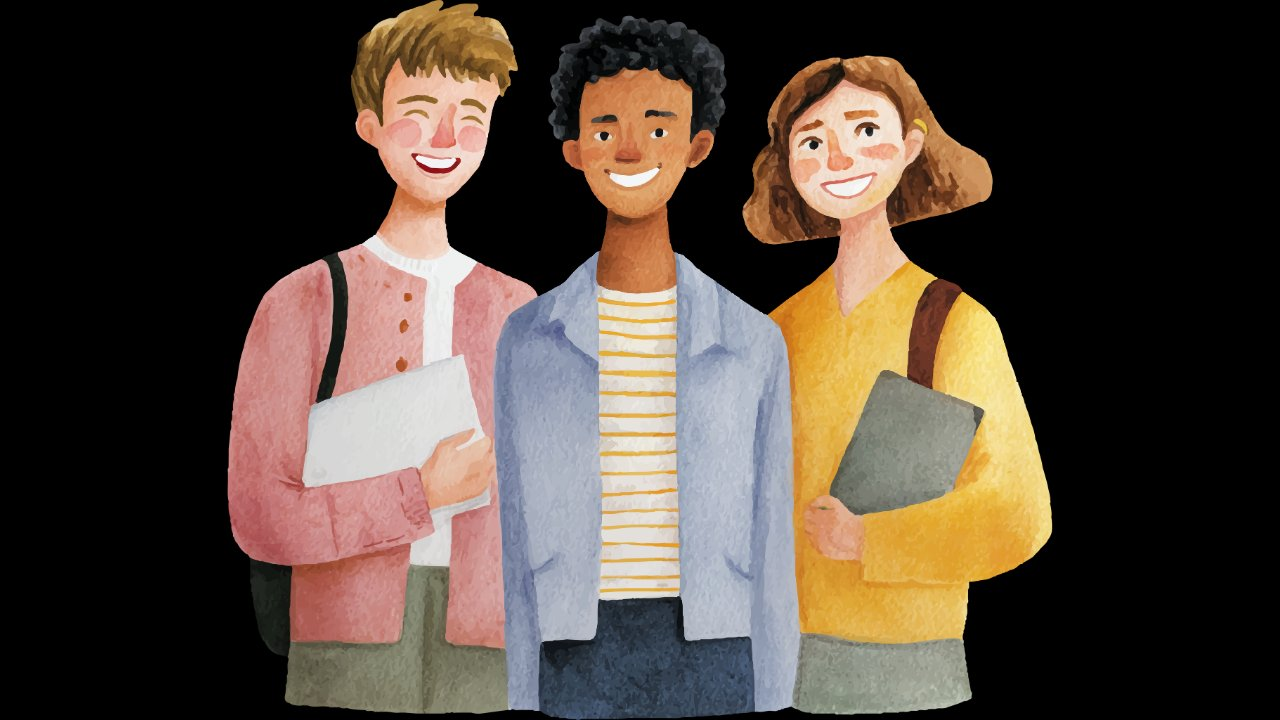
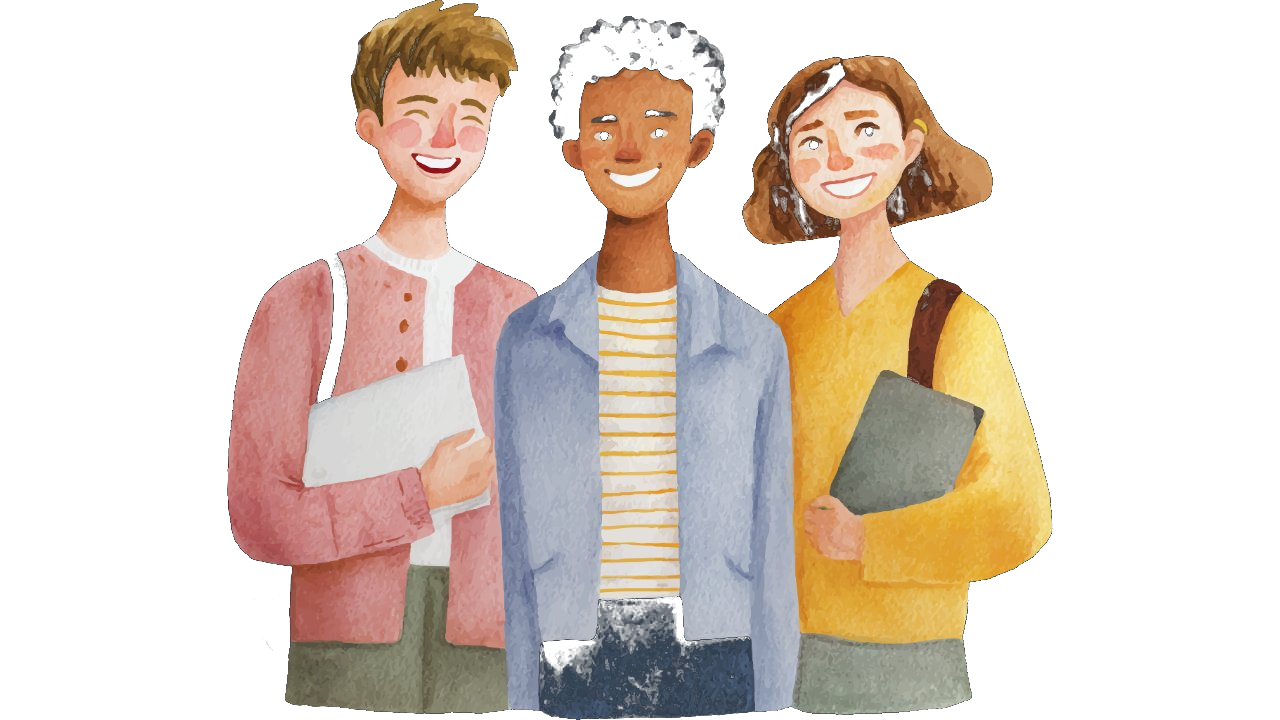
fix hero image transparency + text layout

diff --git a/app/page.tsx b/app/page.tsx
@@ -11,49 +11,46 @@ export default function HomePage() {
           <div className="absolute top-10 left-10 w-72 h-72 bg-white rounded-full blur-3xl" />
           <div className="absolute bottom-10 right-10 w-96 h-96 bg-accent-500 rounded-full blur-3xl" />
         </div>
-        <div className="container-main relative py-16 sm:py-24">
-          <div className="grid grid-cols-1 lg:grid-cols-[3fr_2fr] gap-4 items-center">
-            {/* Left — Text content */}
+        <div className="container-main relative py-16 sm:py-20">
+          <div className="grid grid-cols-1 lg:grid-cols-[55%_45%] gap-6 items-center">
+
+            {/* Left — Text */}
             <div>
-              <div className="inline-flex items-center gap-2 bg-white/15 backdrop-blur-sm rounded-full px-4 py-1.5 text-sm font-medium mb-6">
+              <div className="inline-flex items-center gap-2 bg-white/15 backdrop-blur-sm rounded-full px-4 py-1.5 text-sm font-medium mb-5">
                 <span className="w-2 h-2 bg-emerald-400 rounded-full animate-pulse" />
                 100% Free – No Login Required
               </div>
-              <h1 className="text-4xl sm:text-5xl xl:text-6xl font-heading font-bold leading-tight mb-6">
-                Your Complete Guide to
-                <span className="block text-accent-300">Government Exams</span>
+              <h1 className="text-4xl sm:text-5xl font-heading font-bold leading-tight mb-5">
+                Your Complete Guide to{' '}
+                <span className="text-accent-300">Government Exams</span>
               </h1>
-              <p className="text-lg sm:text-xl text-primary-100 leading-relaxed mb-8">
-                Syllabus, study plans, best books, free resources, and preparation strategies for UPSC, SSC, Banking, Railway, and all major government exams. Everything you need, in one place.
+              <p className="text-base sm:text-lg text-primary-100 leading-relaxed mb-7 max-w-xl">
+                Syllabus, study plans, best books, and free resources for UPSC, SSC, Banking, Railway, and all major government exams. Everything in one place.
               </p>
-              <div className="flex flex-wrap gap-4">
-                <Link href="/exams" className="inline-flex items-center px-8 py-4 bg-white text-primary-600 font-heading font-bold rounded-xl hover:bg-primary-50 transition-all shadow-lg hover:shadow-xl active:scale-[0.98]">
+              <div className="flex flex-wrap gap-3">
+                <Link href="/exams" className="inline-flex items-center px-7 py-3.5 bg-white text-primary-600 font-heading font-bold rounded-xl hover:bg-primary-50 transition-all shadow-lg hover:shadow-xl active:scale-[0.98] text-sm">
                   Explore All Exams
-                  <svg className="ml-2 w-5 h-5" fill="none" stroke="currentColor" viewBox="0 0 24 24"><path strokeLinecap="round" strokeLinejoin="round" strokeWidth={2} d="M13 7l5 5m0 0l-5 5m5-5H6" /></svg>
+                  <svg className="ml-2 w-4 h-4" fill="none" stroke="currentColor" viewBox="0 0 24 24"><path strokeLinecap="round" strokeLinejoin="round" strokeWidth={2} d="M13 7l5 5m0 0l-5 5m5-5H6" /></svg>
                 </Link>
-                <Link href="/tools/eligibility-checker" className="inline-flex items-center px-8 py-4 border-2 border-white/30 text-white font-heading font-semibold rounded-xl hover:bg-white/10 transition-all">
+                <Link href="/tools/eligibility-checker" className="inline-flex items-center px-7 py-3.5 border-2 border-white/30 text-white font-heading font-semibold rounded-xl hover:bg-white/10 transition-all text-sm">
                   Check Your Eligibility
                 </Link>
               </div>
             </div>
 
-            {/* Right — Students illustration (mix-blend-mode removes the black background) */}
-            <div className="hidden lg:flex items-end justify-end translate-x-8">
+            {/* Right — Students illustration (black bg removed via Pillow) */}
+            <div className="hidden lg:flex items-end justify-end">
               <img
                 src="/students.png"
                 alt="Government exam aspirants"
                 className="w-full object-contain"
-                style={{
-                  maxHeight: '520px',
-                  mixBlendMode: 'screen',
-                  filter: 'contrast(1.05) brightness(1.1)',
-                }}
+                style={{ maxHeight: '480px' }}
               />
             </div>
           </div>
 
           {/* Quick Stats */}
-          <div className="grid grid-cols-2 sm:grid-cols-4 gap-4 mt-14">
+          <div className="grid grid-cols-2 sm:grid-cols-4 gap-4 mt-12">
             {[
               { value: '100', label: 'Exams Covered' },
               { value: '200+', label: 'Free Resources' },
